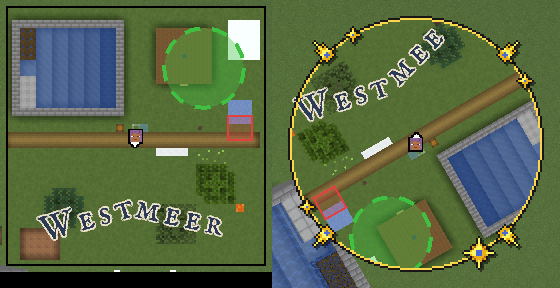
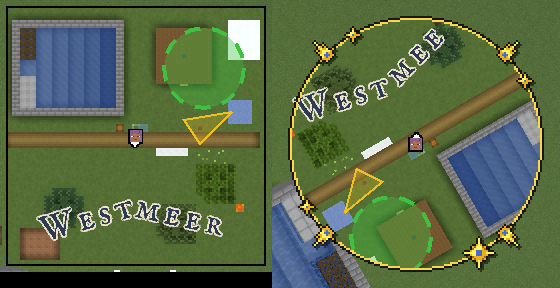
Doku, Bildszene und 0.2.16 zu Formen aus Wegpunkten (mod#79)
wegpunkte.md: Bedienung, neuer Abschnitt „Formen aus Wegpunkten“,
„Regionen“ als alte Rechtecke, Anheften, Ablage, Tests, Was fehlt. Die
Szene formen zeigt eine angeheftete Region aus drei Wegpunkten.

diff --git a/src/gametest/java/com/nekyia/heroicmap/Bilder.java b/src/gametest/java/com/nekyia/heroicmap/Bilder.java
@@ -15,7 +15,9 @@ import java.io.UncheckedIOException;
 import java.nio.file.Files;
 import java.nio.file.Path;
 import java.nio.file.StandardCopyOption;
+import java.util.ArrayList;
 import java.util.Arrays;
+import java.util.List;
 import java.util.Map;
 import javax.imageio.ImageIO;
 import net.fabricmc.loader.api.FabricLoader;
@@ -137,6 +139,9 @@ public final class Bilder implements FabricClientGameTest {
                 "outline":{"color":"#F2E8D0CC","width":1}}
             ]}""";
 
+    /** Die Wegpunkte der eigenen Region in der Szene der Formen, rechts vom Spieler zwischen Kreis und Dreieck der Ebene. */
+    private static final int[][] DREIECK = {{6, -2}, {12, -3}, {8, 1}};
+
     /** Nadeln in drei Grössen, ein Banner und eine Kartenschrift; die Bilder holt der Mod von einem Server im Test. */
     private static final String ORTE = """
             {"v":1,"typ":"ebene","id":"test:orte","version":"1","teil":1,"teile":1,"objects":[
@@ -171,7 +176,7 @@ public final class Bilder implements FabricClientGameTest {
                     throw new AssertionError("Teil der Orte nicht lesbar");
                 }
                 Ebenen.INSTANZ.teil(t);
-                // Eine eigene Region links unten, wie der Spieler sie über das Menü setzt (docs/wegpunkte.md, „Regionen“).
+                // Ein altes Rechteck links unten, wie es bis 0.2.15 das Menü setzte (docs/wegpunkte.md, „Regionen“).
                 Wegpunkte.INSTANZ.setze(Ebenen.UEBERWELT, -14, 2, -5, 8);
                 Minimap.INSTANZ.setzeScale(4);
                 Minimap.INSTANZ.setzeZoom(2);
@@ -502,8 +507,16 @@ public final class Bilder implements FabricClientGameTest {
             }
             Ebenen.INSTANZ.teil(t);
             Wegpunkte.INSTANZ.umschalten("test:formen", "see");
-            Wegpunkte.INSTANZ.setze(Ebenen.UEBERWELT, 12, -2, 14, 0);
-            Wegpunkte.INSTANZ.umschalten(Wegpunkte.INSTANZ.regionen().getLast());
+            // Eine eigene Region aus drei Wegpunkten (docs/wegpunkte.md, „Formen aus Wegpunkten“).
+            List<Integer> ids = new ArrayList<>();
+            for (int[] e : DREIECK) {
+                Wegpunkte.INSTANZ.setze(Ebenen.UEBERWELT, e[0], e[1]);
+                ids.add(Wegpunkte.INSTANZ.punkte().stream().filter(q -> q.x() == e[0] && q.z() == e[1]).findFirst().orElseThrow().id());
+            }
+            if (!Wegpunkte.INSTANZ.setzeForm(ids)) {
+                throw new AssertionError("Region aus drei Wegpunkten nicht gesetzt");
+            }
+            Wegpunkte.INSTANZ.umschalten(Wegpunkte.INSTANZ.eigeneFormen().getLast());
             Minimap.INSTANZ.setzeScale(4);
             Minimap.INSTANZ.setzeZoom(4);
         });
@@ -541,7 +554,11 @@ public final class Bilder implements FabricClientGameTest {
             mc.gui.setScreen(null);
             Ebenen.INSTANZ.leeren();
             Wegpunkte.INSTANZ.umschalten("test:formen", "see");
-            Wegpunkte.INSTANZ.loesche(Wegpunkte.INSTANZ.regionen().getLast());
+            // Die drei Wegpunkte löschen, mit ihnen die Region.
+            for (int[] e : DREIECK) {
+                Wegpunkte.INSTANZ.punkte().stream().filter(q -> q.x() == e[0] && q.z() == e[1]).findFirst()
+                        .ifPresent(Wegpunkte.INSTANZ::loesche);
+            }
             Minimap.INSTANZ.setzeDrehen(false);
             Minimap.INSTANZ.setzeSkin(Skin.OHNE);
             Minimap.INSTANZ.setzeRund(false);

diff --git a/src/main/java/com/nekyia/heroicmap/Wegpunkte.java b/src/main/java/com/nekyia/heroicmap/Wegpunkte.java
@@ -25,8 +25,8 @@ import java.util.stream.Collectors;
 import org.slf4j.Logger;
 
 /**
- * Die Wegpunkte und eigenen Regionen des Spielers und was er auf der Minimap angeheftet hat,
- * Wegpunkte, Mitspieler, eigene Regionen und Flächen, Kreise, Nadeln und Banner vom Server. Je Welt in
+ * Die Wegpunkte, eigenen Formen und alten Rechtecke des Spielers und was er auf der Minimap angeheftet hat,
+ * Wegpunkte, Mitspieler, eigene Formen und Rechtecke und Flächen, Kreise, Nadeln und Banner vom Server. Je Welt in
  * {@code wegpunkte.json} im Ordner der Welt; im Einzelspieler nur im Speicher. Nur der
  * Render-Thread liest und ändert sie. Siehe docs/wegpunkte.md.
  */
@@ -60,7 +60,7 @@ final class Wegpunkte {
     }
 
     /**
-     * Eine eigene Region, das Rechteck der Blöcke von (x0, z0) bis (x1, z1) samt beiden, x0 ≤ x1 und
+     * Ein altes Rechteck aus „Region von hier“, die Blöcke von (x0, z0) bis (x1, z1) samt beiden, x0 ≤ x1 und
      * z0 ≤ z1; {@code farbe} ist ein Index in {@link #FARBEN}. Siehe docs/wegpunkte.md, „Regionen“.
      */
     record Region(String dimension, int x0, int z0, int x1, int z1, int farbe, boolean angeheftet) {
@@ -74,7 +74,7 @@ final class Wegpunkte {
     record Anheftung(String ebene, String id) {
     }
 
-    /** So viele eigene Regionen je Welt; darüber setzt der Mod keine neue. */
+    /** So viele alte Rechtecke je Welt liest der Mod. */
     static final int MAX_REGIONEN = 256;
     /** So viele eigene Formen aus Wegpunkten je Welt, und so viele Punkte je Form. */
     static final int MAX_EIGENE_FORMEN = 256, MAX_PUNKTE_FORM = 64;
@@ -322,6 +322,7 @@ final class Wegpunkte {
     /**
      * Setzt eine Region über die Blöcke von (ax, az) bis (bx, bz) samt beiden, gleich in welcher Folge
      * die Ecken kamen; gibt es sie schon oder schon {@link #MAX_REGIONEN}, bleibt es, wie es ist.
+     * Nur noch Tests setzen so ein altes Rechteck; der Spieler baut Formen aus Wegpunkten.
      */
     void setze(String dimension, int ax, int az, int bx, int bz) {
         Region r = region(dimension, ax, az, bx, bz, farbe(dimension), false);

diff --git a/docs/wegpunkte.md b/docs/wegpunkte.md
@@ -1,12 +1,13 @@
 ---
 title: Wegpunkte
-description: Wegpunkte und eigene Regionen auf der Vollbildkarte setzen und löschen, Marken für Wegpunkte, Spieler und Mitspieler am Rand, Klick zum Zentrieren, Doppelklick zum Anheften an die Minimap, auch für Regionen, Kreise, Nadeln und Banner vom Server, höchstens 64 angeheftete Regionen und 64 Nadeln, Grösse der Köpfe, Ablage in wegpunkte.json je Welt und was fehlt.
+description: Wegpunkte auf der Vollbildkarte setzen und löschen, eigene Linien und Regionen aus Wegpunkten, alte Rechtecke, Marken für Wegpunkte, Spieler und Mitspieler am Rand, Klick zum Zentrieren, Doppelklick zum Anheften an die Minimap, auch für Regionen, Kreise, Nadeln und Banner vom Server, höchstens 64 angeheftete Regionen und 64 Nadeln, Grösse der Köpfe, Ablage in wegpunkte.json je Welt und was fehlt.
 code:
   - src/main/java/com/nekyia/heroicmap/Wegpunkte.java
   - src/main/java/com/nekyia/heroicmap/Karte.java
   - src/main/java/com/nekyia/heroicmap/Minimap.java
   - src/main/java/com/nekyia/heroicmap/Mitspieler.java
   - src/main/java/com/nekyia/heroicmap/Kanal.java
+  - src/main/java/com/nekyia/heroicmap/Tafeln.java
   - src/test/java/com/nekyia/heroicmap/WegpunkteTest.java
   - src/test/java/com/nekyia/heroicmap/MinimapTest.java
   - src/main/java/com/nekyia/heroicmap/Kartenblick.java
@@ -21,8 +22,10 @@ stehen sie als Raute in ihrer Farbe, wie Mitspieler und der eigene Spieler;
 was ausserhalb des Schirms liegt, steht am Rand in seiner Richtung. Ein
 Klick legt eine Marke in die Mitte, ein Doppelklick heftet einen Wegpunkt
 oder Mitspieler an die [Minimap](minimap.md). So hat es der User am 08.10.
-gewünscht. Ebenso heftet ein Doppelklick eine eigene Region oder eine
-Fläche oder einen Kreis vom Server an, siehe „Anheften“ (mod#36).
+gewünscht. Ebenso heftet ein Doppelklick eine eigene Form oder eine
+Fläche oder einen Kreis vom Server an, siehe „Anheften“ (mod#36). Aus
+Wegpunkten baut der Spieler eigene Linien und Regionen, siehe „Formen aus
+Wegpunkten“ (mod#79).
 
 ## Bedienung
 
@@ -33,9 +36,13 @@ Fläche oder einen Kreis vom Server an, siehe „Anheften“ (mod#36).
 | Klick auf eine Marke | legt sie in die Mitte, sobald kein zweiter Klick mehr folgen kann, 250 ms nach dem Loslassen: einen Wegpunkt, einen Mitspieler oder den eigenen Spieler. So kommt man vom Wegpunkt zum eigenen Spieler zurück. Wer auf einer Marke zu ziehen beginnt und weiter als 3 Einheiten zieht (`Karte.ZUG`), zieht nur die Karte |
 | Doppelklick auf einen Wegpunkt oder Mitspieler | heftet ihn an die Minimap oder löst ihn wieder; die Karte bewegt sich dabei nicht |
 | Linke Taste 2 s still auf einem Wegpunkt halten | er hängt an der Maus, die Karte zieht nicht mit; beim Loslassen liegt er auf dem Block darunter, mit Farbe und Anheften (`Wegpunkte.verschiebe`). Liegt dort schon einer, bleibt er, wo er war; `Esc` bricht ab. Still heisst: nicht weiter als 3 Einheiten gezogen (`Karte.ZUG`); unter 2 s ist es ein Klick oder ein Zug wie sonst (`Karte.HALTEN_MS`, mod#75). Nur Wegpunkte, nicht die Rauten eigener Regionen |
-| Doppelklick auf die Raute einer eigenen Region, auf eine Fläche, einen Kreis, eine Nadel oder ein Banner vom Server | heftet sie an die Minimap oder löst sie wieder, siehe „Anheften“ |
-| Rechtsklick, „Region von hier“, dann ein Linksklick oder „Region bis hier“ | setzt eine eigene Region, das Rechteck der Blöcke zwischen beiden Ecken samt ihnen, siehe „Regionen“; dazwischen zeigt eine gestrichelte Vorschau das Rechteck bis zur Maus und unten links der Hinweis „Linksklick setzt die zweite Ecke, Esc bricht ab“; ziehen verschiebt die Karte weiter, „Region abbrechen“ oder `Esc` brechen ab |
-| Rechtsklick in eine eigene Region oder auf ihre Raute | „Region löschen“ |
+| Doppelklick in eine eigene Region, auf eine eigene Linie, auf die Raute eines alten Rechtecks, auf eine Fläche, einen Kreis, eine Nadel oder ein Banner vom Server | heftet sie an die Minimap oder löst sie wieder, siehe „Anheften“ |
+| Rechtsklick auf einen Wegpunkt, „Punkt hinzufügen“ | beginnt eine Form mit ihm oder fügt ihn an die Form im Bau an, siehe „Formen aus Wegpunkten“ |
+| Linksklick auf einen Wegpunkt, solange eine Form im Bau ist | fügt ihn an, statt ihn in die Mitte zu legen; auf den ersten Punkt schliesst er bei drei und mehr Punkten die Region. Ziehen verschiebt die Karte wie sonst |
+| Rechtsklick, „Form fertig“ | speichert die Form im Bau, mit zwei Punkten eine Linie, mit mehr eine Region; den Eintrag gibt es ab zwei Punkten |
+| Rechtsklick, „Form abbrechen“, oder `Esc` | verwirft die Form im Bau; die Wegpunkte bleiben |
+| Rechtsklick in eine eigene Region oder auf eine eigene Linie | „Form löschen“; die Wegpunkte bleiben |
+| Rechtsklick in ein altes Rechteck oder auf seine Raute | „Region löschen“ |
 
 - **Doppelklick:** Das Spiel meldet einen Klick als doppelt, wenn derselbe
   Knopf im selben Schirm weniger als 250 ms nach dem letzten kommt, gleich
@@ -114,23 +121,55 @@ Fläche oder einen Kreis vom Server an, siehe „Anheften“ (mod#36).
   GUI-Massstab 2 sind es 12 Pixel, die Texel also abwechselnd 1 und 2
   Pixel breit. Ob 6 Einheiten gut aussehen, sieht der User im Spiel.
 
+## Formen aus Wegpunkten
+
+Eigene Linien und Regionen baut der Spieler aus seinen Wegpunkten, statt
+„Region von hier“, so will es der User (mod#79). Zwei Punkte sind eine
+Linie, drei und mehr eine Region, ein Vieleck in der Folge der Punkte.
+
+- **Bauen:** Rechtsklick auf einen Wegpunkt, „Punkt hinzufügen“ beginnt die
+  Form. Danach fügt ein Linksklick ohne Zug auf einen Wegpunkt ihn an, oder
+  wieder „Punkt hinzufügen“ (`Karte.hinzu`). Ein Linksklick auf den ersten
+  Punkt schliesst die Region, sobald drei dabei sind; „Form fertig“ speichert
+  die Form, wie sie ist (`Karte.fertig`, `Wegpunkte.setzeForm`). Solange sie
+  im Bau ist, verbindet eine gepunktete weisse Vorschau die Punkte und den
+  letzten mit der Maus, und unten links steht der Hinweis „Linksklick auf
+  Wegpunkte: Punkt dazu, auf den ersten: Region; Rechtsklick: Form fertig;
+  Esc bricht ab“.
+- **Nicht dazu** kommt ein Punkt, der schon dabei ist, einer aus einer
+  anderen Dimension oder einer über 64 (`Wegpunkte.MAX_PUNKTE_FORM`). Wer
+  die Dimension wechselt, verliert die Form im Bau.
+- **Verweise:** Jeder Wegpunkt hat eine feste `id`; die Form nennt die ids
+  ihrer Punkte in Reihenfolge (`Wegpunkte.EigeneForm`). Wer einen Wegpunkt
+  verschiebt, verschiebt die Form mit. Wer ihn löscht, nimmt ihn aus jeder
+  Form; bleiben weniger als zwei Punkte, fällt die Form weg. Aus einer
+  Region mit drei Punkten wird so eine Linie.
+- **Höchstens 256** Formen je Welt (`Wegpunkte.MAX_EIGENE_FORMEN`);
+  darüber speichert „Form fertig“ nichts, und unten links steht „Höchstens
+  256 eigene Formen“.
+- **Farbe** wie ein Wegpunkt: die erste der 8 Farben, die in der Dimension
+  unter Wegpunkten, Rechtecken und Formen noch frei ist.
+- **Gezeichnet** auf der Vollbildkarte über den Formen der Ebenen
+  (`Wegpunkte.form`, `Wegpunkte.karte`): eine Region als Fläche in ihrer
+  Farbe zu 25 % mit 1 Einheit Rand, eine Linie 2 Einheiten breit, beide
+  durch die Mitten der Blöcke ihrer Wegpunkte. Die Wegpunkte selbst stehen
+  darüber wie sonst.
+- **Treffer:** in einer Region, oder höchstens 3 Einheiten des GUI neben
+  einer Linie (`Karte.eigeneUnter`, `Tafeln.abstand`); überlappen zwei, die
+  zuletzt gebaute. Ein Wegpunkt geht vor.
+- **Löschen:** Rechtsklick in die Region oder auf die Linie, „Form
+  löschen“. Die Wegpunkte bleiben.
+- **Anheften:** Doppelklick, siehe „Anheften“. Auch Linien, entschieden
+  vom Reviewer; den Schleier in der Welt bekommen nur Regionen.
+
 ## Regionen
 
-Eigene Regionen des Spielers, „Region-Wegpunkte“, so wünscht es der User
-(mod#35). Ein Rechteck aus zwei Ecken, entschieden vom Reviewer; ein
-Vieleck kommt nur, wenn der User es will.
+Die Rechtecke aus „Region von hier“ bis 0.2.15 (mod#35, mod#73). Neue
+gibt es nicht mehr, entschieden vom Reviewer (mod#79); vorhandene bleiben
+ohne Umwandlung.
 
-- **Setzen** über das Menü der rechten Taste, wo auch „Wegpunkt setzen“
-  steht: „Region von hier“ merkt die erste Ecke. Danach setzt ein Linksklick
-  ohne Zug die zweite Ecke auf den Block unter der Maus, auch auf einer
-  Marke; wer zieht, verschiebt die Karte, die Vorschau bleibt. Ebenso setzt
-  „Region bis hier“ im Menü der rechten Taste das Rechteck
-  (`Wegpunkte.setze` mit vier Zahlen). Ohne den Linksklick nahm die Karte
-  den Klick als Verschieben, und es entstand keine Region (mod#73). Die Ecken dürfen in jeder
-  Folge kommen. Dieselbe Region noch einmal bleibt eine. Höchstens 256 je
-  Welt (`Wegpunkte.MAX_REGIONEN`); darüber setzt der Mod keine.
-- **Farbe** wie ein Wegpunkt: die erste der 8 Farben, die in der Dimension
-  unter Wegpunkten und Regionen noch frei ist.
+- **Aus der Datei** gelesen, höchstens 256 je Welt
+  (`Wegpunkte.MAX_REGIONEN`).
 - **Gezeichnet** auf der Vollbildkarte nach den Formen der Ebenen, vor
   Nadeln und Marken (`Karte.regionen`): die Fläche in ihrer Farbe zu 25 %,
   1 Einheit Rand deckend, auf ganzen Pixeln wie die Kacheln. In ihrer Mitte
@@ -138,25 +177,29 @@ Vieleck kommt nur, wenn der User es will.
   sie in die Mitte, ausserhalb des Schirms steht sie am Rand.
 - **Löschen:** Rechtsklick in die Region oder auf ihre Raute, „Region
   löschen“; überlappen zwei, die zuletzt gesetzte.
+- **Anheften:** Doppelklick auf die Raute, siehe „Anheften“.
 - **Minimap:** nur angeheftet, siehe „Anheften“.
 
 ## Anheften
 
 Regionen und Kreise lassen sich anheften wie Wegpunkte, so wünscht es der
-Maintainer (mod#36): eigene Regionen und Flächen und Kreise der Ebenen vom
-Server. Linien nicht, entschieden vom Reviewer. Ebenso Nadeln und Banner,
+Maintainer (mod#36): eigene Formen und Rechtecke und Flächen und Kreise der
+Ebenen vom Server. Linien vom Server nicht, entschieden vom Reviewer; eigene
+Linien schon (mod#79). Ebenso Nadeln und Banner,
 so will es der User (mod#71); auf der Minimap stehen sie nur angeheftet,
 siehe [Ebenen](ebenen.md), „Nadeln“. Strahl und Schleier in der
 Welt kommen in eigenen PRs.
 
 ![Minimap genordet und gedreht: nur der angeheftete Kreis und die angeheftete eigene Region, die übrigen Formen fehlen; Szene `formen` des Gametests](bilder/formen.png)
 
-- **Doppelklick** auf der Vollbildkarte auf die Raute einer eigenen Region
-  oder auf eine Fläche oder einen Kreis vom Server, siehe „Bedienung“.
-  Anheften lässt sich nur, was eine `id` hat; ohne `id` gibt es auch keine
-  Tafel.
-- **Höchstens 64** Regionen und Kreise je Welt, eigene und vom Server
-  zusammen (`Wegpunkte.MAX_ANGEHEFTET`). Darüber heftet der Doppelklick
+- **Doppelklick** auf der Vollbildkarte in eine eigene Region, auf eine
+  eigene Linie, auf die Raute eines Rechtecks oder auf eine Fläche oder
+  einen Kreis vom Server, siehe „Bedienung“. Vom Server lässt sich nur
+  anheften, was eine `id` hat; ohne `id` gibt es auch keine Tafel. Der
+  erste Klick merkt sich die eigene Form unter der Maus
+  (`Karte.letzteEigene`), wenn dort nichts vom Server liegt.
+- **Höchstens 64** Formen, Rechtecke und Kreise je Welt, eigene und vom
+  Server zusammen (`Wegpunkte.MAX_ANGEHEFTET`). Darüber heftet der Doppelklick
   nichts an, und unten links steht „Höchstens 64 Regionen angeheftet; erst
   eine lösen“. Lösen geht immer. Auch aus der Datei liest der Mod nicht
   mehr.
@@ -175,12 +218,12 @@ Welt kommen in eigenen PRs.
   Ebenen bleiben, auch wenn deren Daten gerade da sind: Nach dem Wechsel
   über einen Proxy können sie noch vom vorigen Server sein.
 - **Minimap:** die angehefteten Flächen und Kreise der sichtbaren Ebenen,
-  wie die Vollbildkarte sie zeichnet, darüber die angehefteten eigenen
-  Regionen als Fläche in ihrer Farbe zu 25 % mit 1 Einheit Rand
-  (`Wegpunkte.flaeche`). Alle liegen unter der Kartenschrift und den
+  wie die Vollbildkarte sie zeichnet, darüber die angehefteten Rechtecke
+  (`Wegpunkte.flaeche`) und eigenen Formen (`Wegpunkte.form`) wie auf der
+  Vollbildkarte. Alle liegen unter der Kartenschrift und den
   Nadeln; eine ausgeblendete Ebene fehlt auch angeheftet.
-- **Vollbildkarte:** Der Rand angehefteter Flächen, Kreise und eigener
-  Regionen ist 2 Einheiten breiter (`Wegpunkte.BREITER`), höchstens 64 wie
+- **Vollbildkarte:** Der Rand angehefteter Flächen, Kreise, Rechtecke und
+  eigener Formen ist 2 Einheiten breiter (`Wegpunkte.BREITER`), höchstens 64 wie
   jeder Rand. Hat eine Form keinen Rand, bekommt sie einen von 2 Einheiten
   in der Füllung ohne Alpha, wie die Vorgabe des Formats. Die Raute einer
   angehefteten Region hat den bunten Ring wie ein Wegpunkt.
@@ -204,7 +247,8 @@ Welt kommen in eigenen PRs.
 - **Format:**
 
   ```json
-  {"wegpunkte":[{"dimension":"minecraft:overworld","x":12,"z":-40,"farbe":0,"minimap":true}],
+  {"wegpunkte":[{"id":1,"dimension":"minecraft:overworld","x":12,"z":-40,"farbe":0,"minimap":true}],
+   "eigene_formen":[{"punkte":[1,2,3],"farbe":2,"minimap":false}],
    "regionen":[{"dimension":"minecraft:overworld","x0":2,"z0":-5,"x1":10,"z1":3,"farbe":1,"minimap":false}],
    "spieler":["00000000-0000-0000-0000-000000000001"],
    "formen":[{"ebene":"b:staedte","id":"westmark"}],
@@ -212,11 +256,15 @@ Welt kommen in eigenen PRs.
   ```
 
   `farbe` ist ein Index in `Wegpunkte.FARBEN`, `minimap` heisst angeheftet,
+  `eigene_formen` nennt die ids ihrer Wegpunkte in Reihenfolge,
   `spieler` sind die angehefteten Mitspieler, `formen` die angehefteten
   Flächen und Kreise vom Server, `nadeln` die angehefteten Nadeln und
   Banner. Eine Region nennt die Blöcke ihrer Ecken,
   `x0` ≤ `x1` und `z0` ≤ `z1`, beide samt. Eine Datei von vor mod#36 ohne
   `formen` oder von vor mod#71 ohne `nadeln` liest der Mod ohne Fehler.
+  Wegpunkte von vor mod#79 ohne `id`, oder mit einer doppelten, bekommen
+  beim Lesen eine neue (`Wegpunkte.vergibIds`); einer Form, deren Punkte
+  fehlen, fallen sie heraus wie beim Löschen.
 - **Schreiben** nach jeder Änderung, über `wegpunkte.json.tmp`, dann
   verschieben; nie liegt eine halbe Datei da.
 - **Lesen:** Ein unlesbarer Eintrag fällt weg, die übrigen bleiben. Ist die
@@ -235,6 +283,8 @@ Welt kommen in eigenen PRs.
   Angeheftetes auf der Minimap, breiterer Rand auf der Karte) und
   `breiterOhneRandNimmtDieFuellung`. Zu Nadeln: `nadelnAnheftenUndBehalten`,
   `hoechstens64NadelnEigeneGrenze` und `nadelnAufDerMinimapNurAngeheftet`.
+  Zu Formen aus Wegpunkten: `festeIdsAuchAusAltenDateien`,
+  `formenAusWegpunktenGehenMitUndBleiben` und `formenGrenzenUndAlteDatei`.
 - `MinimapTest`: `kopfWaechstMitDerSeite`, `amRandInSeinerRichtung` und
   `markeAufDemPixelDerKarte`.
 - `KartenblickTest`: `markenAufDemRasterDerKacheln`,
@@ -252,14 +302,18 @@ Welt kommen in eigenen PRs.
   zweiter löst; ein Doppelklick auf eine Nadel und einer auf die Raute
   einer eigenen Region heften sie an. Dazu „Zum Spieler“, „Optionen …“ und
   zurück, und ein Wegpunkt, 2,5 s still gehalten, an der Maus verschoben,
-  ein zweites Mal mit Escape abgebrochen (mod#75). Eine Region wie ein Spieler:
-  Rechtsklick, „Region von hier“, die Karte ziehen setzt keine Region, die
-  Maus bewegen und ein Linksklick setzt die zweite Ecke.
+  ein zweites Mal mit Escape abgebrochen (mod#75). Formen wie ein Spieler
+  (mod#79): fünf Wegpunkte über „Wegpunkt setzen“; auf dem ersten „Punkt
+  hinzufügen“, Linksklicks auf den zweiten, dritten und ersten schliessen
+  eine Region; „Punkt hinzufügen“, ein Linksklick und „Form fertig“ geben
+  eine Linie; ein Doppelklick in die Region heftet sie an, „Form löschen“
+  löscht sie.
 - `AblageTest`: der Ordner der Welt je Wahl und je Dimension, siehe
   [Download](download.md), „Ablage“.
 - Gametest `Bilder`: die Vollbildkarte mit einem angehefteten Wegpunkt und
   einem am Rand, siehe [Vollbildkarte](vollbildkarte.md), „Bild“; in der
-  Szene `formen` ein angehefteter Kreis und eine angeheftete eigene Region
+  Szene `formen` ein angehefteter Kreis und eine angeheftete Region aus
+  drei Wegpunkten
   auf Minimap und Vollbildkarte, siehe [Ebenen](ebenen.md), „Flächen,
   Kreise und Linien“.
 
@@ -267,3 +321,5 @@ Welt kommen in eigenen PRs.
 
 - **Namen, Farbe wählen:** Ein Wegpunkt hat nur Block und Farbe; die Farbe
   ändern heisst löschen und neu setzen. Verschieben geht, siehe „Bedienung“.
+- **Formen ändern:** Einen Punkt in eine fertige Form einfügen oder ihre
+  Farbe wählen geht nicht; dafür die Form löschen und neu bauen.

diff --git a/docs/entwicklung.md b/docs/entwicklung.md
@@ -69,7 +69,7 @@ Das baut das Jar nach `build/libs/` und lässt die Tests laufen.
 | `KachelwerkMessung` | nur mit `-Pkachelwerk=<datei>`: was `Kachelwerk.schreibe` kostet, siehe [Selbst gezeichnete Karte](selbst.md), „Kosten“ |
 | `PyramideTest` | Verkleinern wie die Pyramide des Renderers, siehe [Selbst gezeichnete Karte](selbst.md), „Pyramide“ |
 | `ChunkMalerTest` | dünne Flächen mindestens ein Pixel, der Deckel einer Truhe nach `facing` und Hälfte, siehe [Minimap](minimap.md), „Flächen und Pixel“ und „Blockentities“ |
-| `WegpunkteTest` | Wegpunkte setzen, löschen, anheften, Farben, kaputte Einträge und Dateien; Regionen, Kreise, Nadeln und Banner anheften, je höchstens 64, tote Einträge, Listen für Karte und Minimap; siehe [Wegpunkte](wegpunkte.md) |
+| `WegpunkteTest` | Wegpunkte setzen, löschen, anheften, Farben, kaputte Einträge und Dateien; feste ids, Formen aus Wegpunkten, die beim Verschieben mitgehen und beim Löschen schrumpfen; Formen, Rechtecke, Kreise, Nadeln und Banner anheften, je höchstens 64, tote Einträge, Listen für Karte und Minimap; siehe [Wegpunkte](wegpunkte.md) |
 | `LichtTest` | die Lightmap gegen die Werte aus der Doku des Renderers, siehe [Minimap](minimap.md), „Licht“ |
 
 ## Gametests
@@ -91,7 +91,7 @@ Mods laufen deshalb auch hier.
 |---|---|
 | `Anmeldung` | die Reihenfolge beim Login: Beim ersten Level gibt es den Spieler noch nicht, wohl aber die Verbindung des Levels, aus der `Downloads.server` liest, siehe [Download](download.md), „Ablage“ |
 | `Bilder` | baut eine Szene und nimmt die Minimap auf, danach das Menü und die Vollbildkarte aus einem Testsatz mit zwei Wegpunkten, das Untermenü „Einstellungen …“, jeden Rahmen eckig und rund und das Menü mit Rahmen, die drehende Minimap, die Szene `formen` mit Flächen, Kreis, Linie und Kartenschrift, die Szene `orte` mit Nadeln, einem Banner und ihren Namen, gleich gross auf zwei Stufen der Vollbildkarte, und „Unicode-Schrift erzwingen“, das die Generation der Kartenschrift hebt, zuletzt die selbst gezeichnete Karte der Szene, gewählt über die Knöpfe, neben der Minimap, die als beschäftigt gilt, auch mit Chunklinien; mit `-Pbilder=<ordner>` landen die Bilder dort, siehe [Minimap](minimap.md), „Bilder“, und [Vollbildkarte](vollbildkarte.md), „Bild“ |
-| `Bedienung` | das Menü und die Vollbildkarte mit echten Eingaben der Maus (`TestInput`): im Menü verschiebt Ziehen mit der linken wie der rechten Taste die ganze Minimap; auf der Karte verschiebt links ziehen den Inhalt, ein Linksklick öffnet kein Menü, ein Rechtsklick öffnet „Hierher teleportieren“, ein Klick darauf teleportiert; Wegpunkte setzen, ziehen und klicken auf Marken am Rand, Doppelklick, Wegpunkt am eigenen Standort, einen Kreis und eine Nadel vom Server und eine eigene Region anheften; eine Region per Linksklick setzen, ziehen setzt keine; Menü und Untermenü bei 1280 × 720 und GUI-Massstab 3; siehe [Minimap](minimap.md), „Bedienung“, [Vollbildkarte](vollbildkarte.md), „Bedienung“, und [Wegpunkte](wegpunkte.md), „Tests“ |
+| `Bedienung` | das Menü und die Vollbildkarte mit echten Eingaben der Maus (`TestInput`): im Menü verschiebt Ziehen mit der linken wie der rechten Taste die ganze Minimap; auf der Karte verschiebt links ziehen den Inhalt, ein Linksklick öffnet kein Menü, ein Rechtsklick öffnet „Hierher teleportieren“, ein Klick darauf teleportiert; Wegpunkte setzen, ziehen und klicken auf Marken am Rand, Doppelklick, Wegpunkt am eigenen Standort, einen Kreis und eine Nadel vom Server und ein altes Rechteck anheften; eine Region und eine Linie aus Wegpunkten bauen, die Region per Doppelklick anheften und löschen; Menü und Untermenü bei 1280 × 720 und GUI-Massstab 3; siehe [Minimap](minimap.md), „Bedienung“, [Vollbildkarte](vollbildkarte.md), „Bedienung“, und [Wegpunkte](wegpunkte.md), „Tests“ |
 | `Messung` | nur mit `-Pmessung=<datei>`: Zeit je Chunk und Frametime mit und ohne Minimap, siehe [Minimap](minimap.md), „Kosten“ |
 | `Server` | nur mit `-Pserver=<adresse>`: von Ende zu Ende gegen einen echten Paper-Server mit dem Plugin, Angebot, voller Download des kleinsten Massstabs des ersten Baums, jeder Dialog mit Ja, die Vollbildkarte als Bild `server-karte`; siehe unten |
 | `Uebernahme` | nur mit `-Puebernahme=<datei>`: was eine Kachel der Vollbildkarte den Render-Thread kostet, siehe [Vollbildkarte](vollbildkarte.md), „Kacheln“ |

diff --git a/CHANGELOG.md b/CHANGELOG.md
@@ -4,6 +4,12 @@ What changed in the Heroic Map mod, one section per version, newest first.
 The release notes on GitHub and Modrinth come from here
 (`.github/notizen.sh`); write them in English.
 
+## 0.2.16
+
+- **Your own lines and regions from waypoints,** instead of "Region from here": right-click a waypoint, "Add point", then left-click more waypoints. Click the first one again to close a region, or choose "Finish shape" for a line. Moving a waypoint moves its shapes; deleting it takes it out of them.
+- **Pin your own shapes** with a double-click, lines too; "Delete shape" in the right-click menu removes one and keeps the waypoints.
+- **Old rectangles stay:** regions set with "Region from here" are still drawn and can be pinned and deleted.
+
 ## 0.2.15
 
 - **The full map remembers where it was:** zoom and position per server, world and dimension.

diff --git a/docs/minimap.md b/docs/minimap.md
@@ -656,9 +656,9 @@ Haus mit einem Schild an der Wand, Bambus, ein Kopf, drei Bäume, ein Weg, Glas,
 ein Feld. Gras, Blumen und Weizen stehen senkrecht und fehlen von oben.
 
 Danach die Ebenen (siehe [ebenen.md](ebenen.md)): Flächen, Kreis, Linie und
-Kartenschrift, der Kreis und eine eigene Region angeheftet (`formen.png`,
+Kartenschrift, der Kreis und eine eigene Region aus drei Wegpunkten angeheftet (`formen.png`,
 `formen-karte.png`), dann Nadeln in drei
-Grössen, ein Banner und ihre Namen, dazu eine eigene Region; die Minimap
+Grössen, ein Banner und ihre Namen, dazu ein altes Rechteck; die Minimap
 ohne Angeheftetes, mit angehefteter Nadel und angeheftetem Banner und nah am
 Banner (`orte.png`), die Vollbildkarte (`orte-karte.png`), auf
 der Vollbildkarte noch einmal mit „Unicode-Schrift erzwingen“
